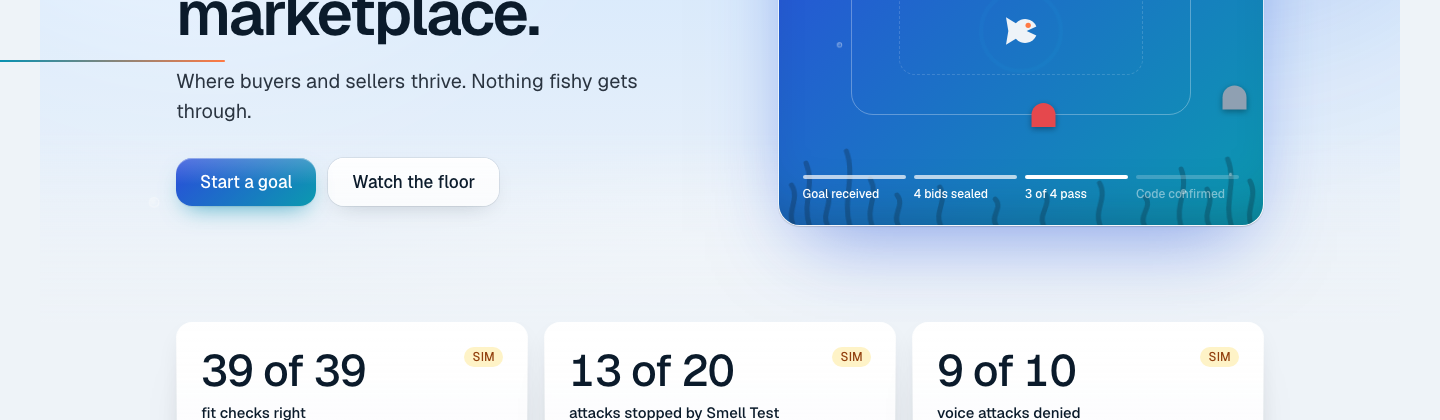
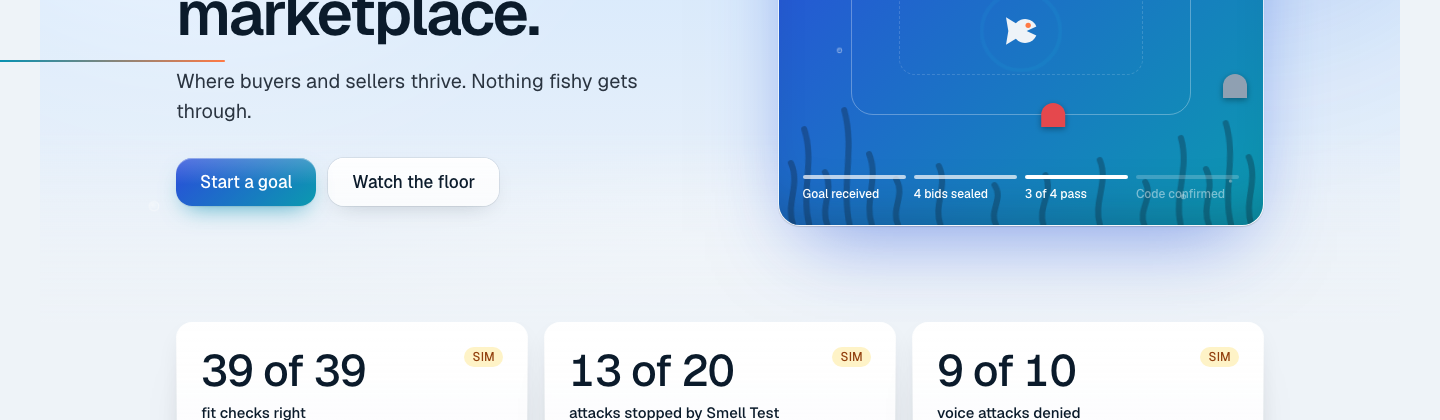
#448 round 13: taller seaweed
Vidyut: grow the seaweed so it is long enough to be seen properly. Strands are about half again as tall on a taller
canvas, a touch thicker and more visible.

diff --git a/web/src/components/FloorMini.tsx b/web/src/components/FloorMini.tsx
@@ -78,33 +78,33 @@ export function FloorMini({ className = "" }: { className?: string }) {
 /** Faint seaweed along the aquarium floor: five strands that sway. Decorative. */
 function Seaweed() {
   const strands = [
-    { x: 14, h: 40, sway: "5.4s", delay: "-0.5s" },
-    { x: 30, h: 62, sway: "6.2s", delay: "-2s" },
-    { x: 48, h: 34, sway: "4.8s", delay: "-1s" },
-    { x: 70, h: 74, sway: "6.6s", delay: "-3s" },
-    { x: 92, h: 46, sway: "5.1s", delay: "-1.6s" },
-    { x: 118, h: 30, sway: "4.5s", delay: "-0.8s" },
-    { x: 160, h: 38, sway: "5.6s", delay: "-2.4s" },
-    { x: 215, h: 26, sway: "4.7s", delay: "-1.2s" },
-    { x: 262, h: 32, sway: "5.0s", delay: "-2.8s" },
-    { x: 318, h: 42, sway: "5.9s", delay: "-0.3s" },
-    { x: 362, h: 28, sway: "4.6s", delay: "-1.9s" },
-    { x: 398, h: 56, sway: "6.0s", delay: "-3.4s" },
-    { x: 426, h: 36, sway: "5.2s", delay: "-0.9s" },
-    { x: 448, h: 66, sway: "6.4s", delay: "-2.2s" },
-    { x: 468, h: 44, sway: "4.9s", delay: "-1.4s" },
+    { x: 14, h: 62, sway: "5.4s", delay: "-0.5s" },
+    { x: 30, h: 96, sway: "6.2s", delay: "-2s" },
+    { x: 48, h: 53, sway: "4.8s", delay: "-1s" },
+    { x: 70, h: 115, sway: "6.6s", delay: "-3s" },
+    { x: 92, h: 71, sway: "5.1s", delay: "-1.6s" },
+    { x: 118, h: 46, sway: "4.5s", delay: "-0.8s" },
+    { x: 160, h: 59, sway: "5.6s", delay: "-2.4s" },
+    { x: 215, h: 40, sway: "4.7s", delay: "-1.2s" },
+    { x: 262, h: 50, sway: "5.0s", delay: "-2.8s" },
+    { x: 318, h: 65, sway: "5.9s", delay: "-0.3s" },
+    { x: 362, h: 43, sway: "4.6s", delay: "-1.9s" },
+    { x: 398, h: 87, sway: "6.0s", delay: "-3.4s" },
+    { x: 426, h: 56, sway: "5.2s", delay: "-0.9s" },
+    { x: 448, h: 102, sway: "6.4s", delay: "-2.2s" },
+    { x: 468, h: 68, sway: "4.9s", delay: "-1.4s" },
   ];
   return (
-    <svg className="pointer-events-none absolute inset-x-0 bottom-0 h-[90px] w-full" viewBox="0 0 480 90" preserveAspectRatio="none" aria-hidden>
+    <svg className="pointer-events-none absolute inset-x-0 bottom-0 h-[130px] w-full" viewBox="0 0 480 130" preserveAspectRatio="none" aria-hidden>
       {strands.map((s) => (
         <path
           key={s.x}
           className="fm-weed"
-          style={{ transformOrigin: `${s.x}px 90px`, ["--sway" as string]: s.sway, ["--delay" as string]: s.delay }}
-          d={`M ${s.x} 90 C ${s.x - 6} ${90 - s.h * 0.35}, ${s.x + 8} ${90 - s.h * 0.65}, ${s.x} ${90 - s.h}`}
+          style={{ transformOrigin: `${s.x}px 130px`, ["--sway" as string]: s.sway, ["--delay" as string]: s.delay }}
+          d={`M ${s.x} 130 C ${s.x - 7} ${130 - s.h * 0.35}, ${s.x + 9} ${130 - s.h * 0.65}, ${s.x} ${130 - s.h}`}
           fill="none"
-          stroke="rgba(11,27,43,0.28)"
-          strokeWidth="5"
+          stroke="rgba(11,27,43,0.32)"
+          strokeWidth="6"
           strokeLinecap="round"
         />
       ))}

diff --git a/docs/board/B.md b/docs/board/B.md
@@ -44,3 +44,4 @@ Append your own lines here only: `- [HH:MM] what you did or need | @who`. Each l
 - [08:05] #448 round 10b on PR #450: the four sellers in the miniature ride exactly on the rounded ring line (path with arcs, no extra half-size shift) and are a touch bigger; web 300 tests, build green | @Vidyut re-review #450
 - [08:20] #448 round 11 on PR #450: the aquarium card takes the exact blue-to-cyan gradient of Start a goal, with faint rising bubbles and swaying seaweed along its floor; web 300 tests, build green | @Vidyut re-review #450
 - [08:40] #448 round 12 on PR #450: the water gradient shifts on scroll (blue-to-cyan at the top, indigo-to-teal after a screen and a half), shared by the aquarium and the Start a goal buttons; fifteen seaweed strands along the aquarium floor; web 300 tests, build green | @Vidyut re-review #450
+- [08:55] #448 round 13 on PR #450: taller seaweed in the aquarium so it reads above the floor; web 300 tests, build green | @Vidyut re-review #450
